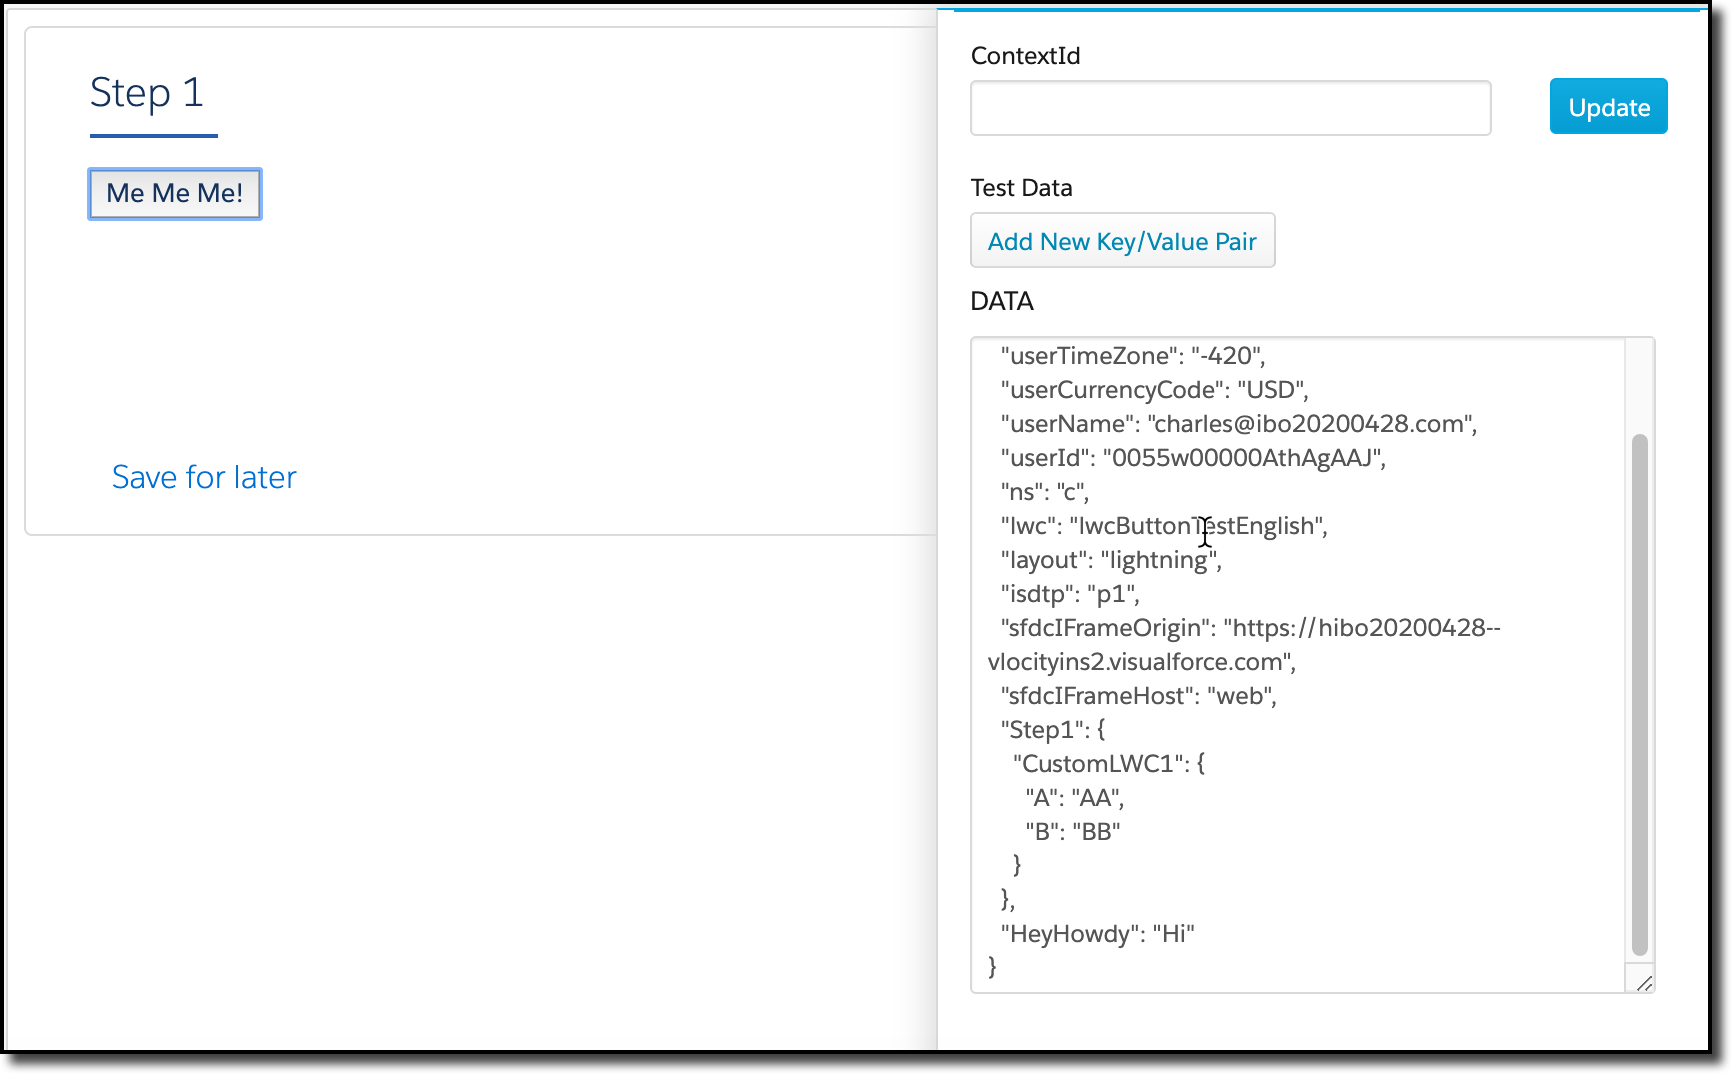
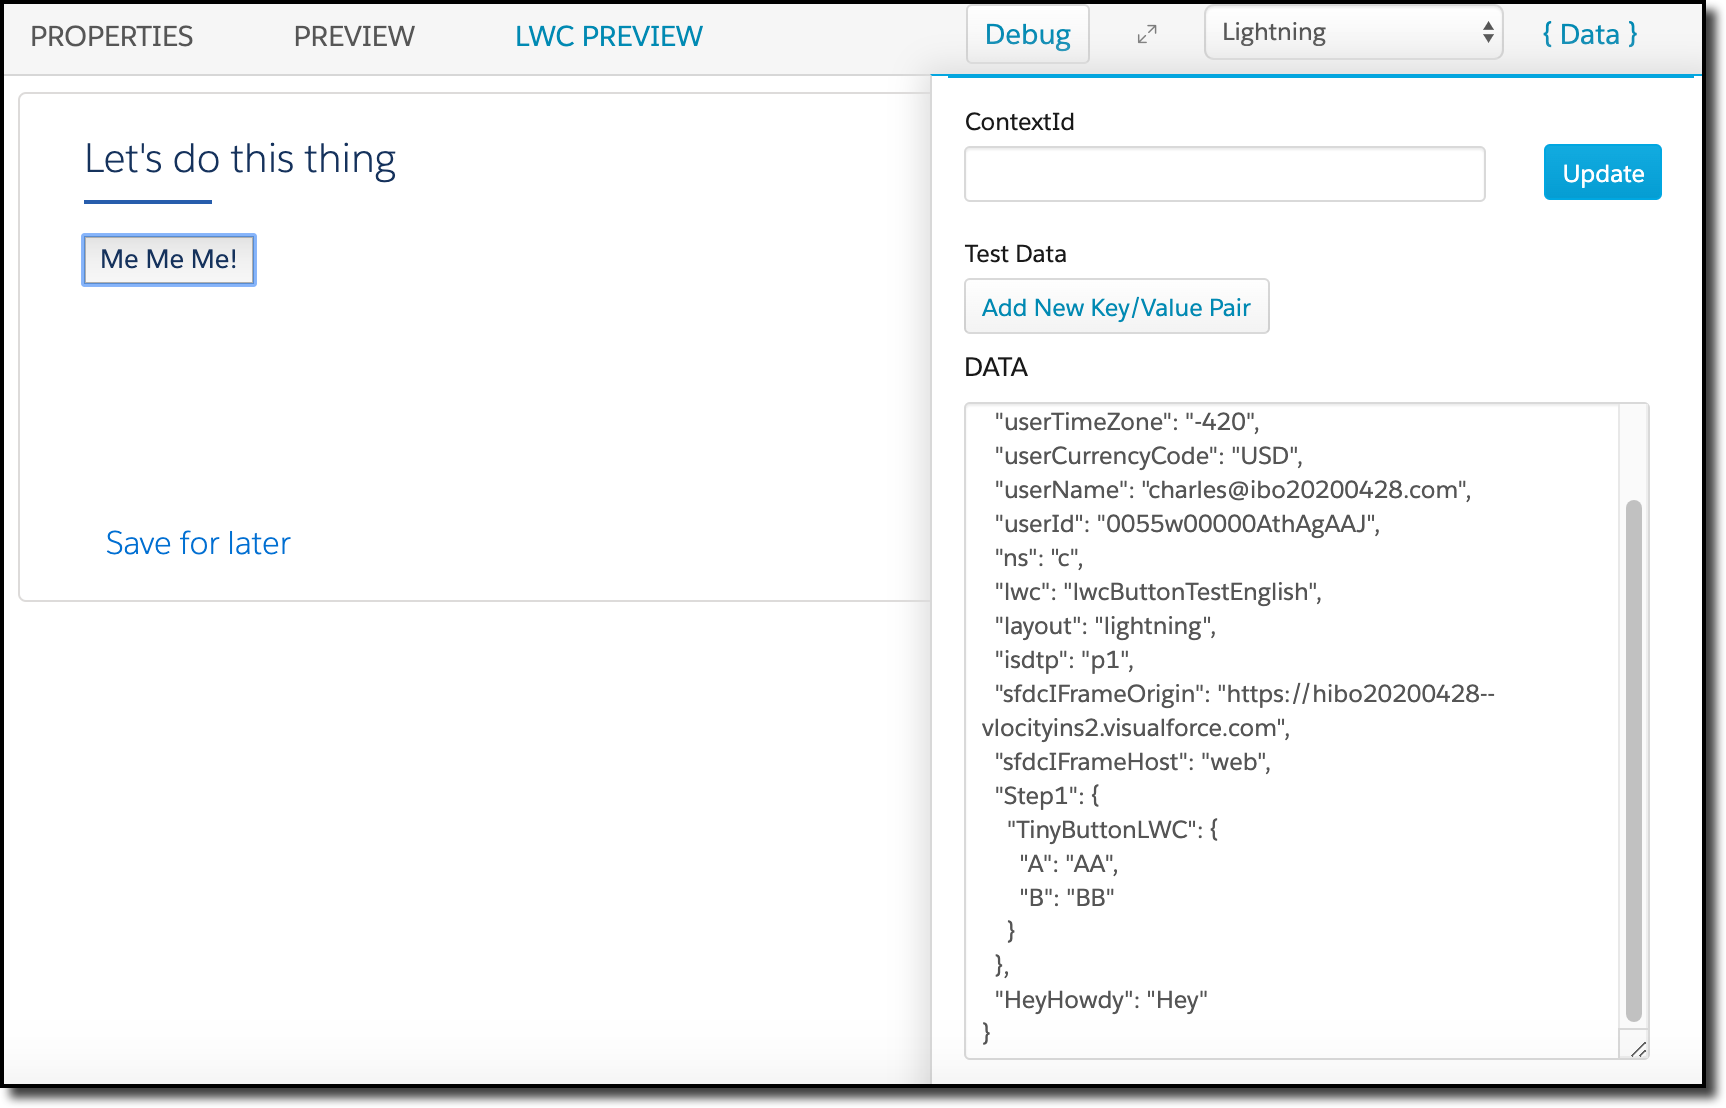
Tiny Button cleanup

diff --git a/OmniScriptLWCs/tinyButton/tinyButton.js b/OmniScriptLWCs/tinyButton/tinyButton.js
@@ -3,54 +3,34 @@
  * 
  * This is a simple LWC that demonstrates three things:
  * 
- * 1. How to get a custom property from the OmniScript element
- * 2. How to set the value of the element to something
- * 3. How to set any element's value in the data JSON
+ * 1. How to set the value of the element to something
+ * 2. How to set any element's value in the data JSON
+ * 3. How to get the text of the label of the element
  * 
  * It is not really intended to be useful as-is, but rather as a
  * starting point for building something more valueable.
  */
 
  // The imports we need as a minimum
-import { LightningElement, track} from 'lwc';
+import { LightningElement, track } from 'lwc';
 import { OmniscriptBaseMixin } from 'vlocityins2/omniscriptBaseMixin';
 
 export default class TinyButton extends OmniscriptBaseMixin(LightningElement) {
 
     // This holds the label which will be shown on the button
     @track buttonlabel = "Click Me";
-
-    // This holds the custom parameters which were passed to us in the definition of the custom LWC
-    parameters = {};
+ 
+ 
 
     // This is called when we're ready to go ... it will see if there's a custom label set
     connectedCallback() {
 
         // For debugging, reference purposes
-        console.log(JSON.stringify(this.omniJsonDef));
+        // console.log(JSON.stringify(this.omniJsonDef));
 
         // We are pretty certain that this will have some value
         this.buttonlabel = this.omniJsonDef.propSetMap.label;
-        this.parseParams();
-
-        if (this.parameters.hasOwnProperty("label")) {
-            this.buttonlabel = this.parameters.label;
-        }
     }
-
-    /**
-     * Get the parameters for the LWC which have been pased in from the OmniScript as metadata
-     */
-    parseParams() {
-        let params = this.omniJsonDef.propSetMap.customAttributes;
-
-        //  Find the values in the list (don't want to be fussy about the order)
-        params.forEach((val) => {
-            this.parameters[val.name] = val.source;
-        });
-    }
-
-
 
     /**
      * Handle the click of the button.
@@ -65,6 +45,6 @@ export default class TinyButton extends OmniscriptBaseMixin(LightningElement) {
         this.omniUpdateDataJson({"A": "AA", "B":"BB"});
 
         //  Set some values explicitly in the data JSON
-        this.omniApplyCallResp({"HeyHowdy": "Hi"});
+        this.omniApplyCallResp({"HeyHowdy": "Hey"});
     }
 }

diff --git a/OmniScriptLWCs/TinyButton.md b/OmniScriptLWCs/TinyButton.md
@@ -2,6 +2,12 @@
 
 [This LWC](tinyButton) has a small UI foot print and behaves somewhat like a set values.  It is intended mostly as a base to start building from, but gives you enough hooks to use as examples.
 
+It does three things:
+
+1. It copies the Field Label from the Custom LWC element (*Me Me Me!*) to the label of the button in the UI.
+2. It sets the value of the element to an object containing "A" and "B" values.
+3. It sets a free-floating value in the data JSON of ["HeyHowdy" to "Hey"](https://www.youtube.com/watch?v=G7X6vPIsE_g).
+
 Here's an example of how it's been added to an OmniScript:
 
 ![tinybutton01](../images/tinybutton01.png)
@@ -10,15 +16,15 @@ You can see the field label specified as Me Me Me!, and how it gets rendered in 
 
 ![](../images/tinybutton02.png)
 
-This screenshot was taken after it was clicked, and you can see two elements have been set in the data JSON.  The first is Step1.CustomLWC1, and the second is HeyHowdy.  These were set in the handler for the on click event on the button:
+This screenshot was taken after it was clicked, and you can see two elements have been set in the data JSON.  The first is Step1.TinyButtonLWC, and the second is HeyHowdy.  These were set in the handler for the on click event on the button:
 
 ```    javascript
 handleClick(event) {
-	//  Set the value of the button in the data JSON (without really knowing "who" I am)
+  //  Set the value of the button in the data JSON (without really knowing "who" I am)
   this.omniUpdateDataJson({"A": "AA", "B":"BB"});
 
-	//  Set some values explicitly in the data JSON
-  this.omniApplyCallResp({"HeyHowdy": "Hi"});
+  //  Set some values explicitly in the data JSON
+  this.omniApplyCallResp({"HeyHowdy": "Hey"});
 }
 ```
 
